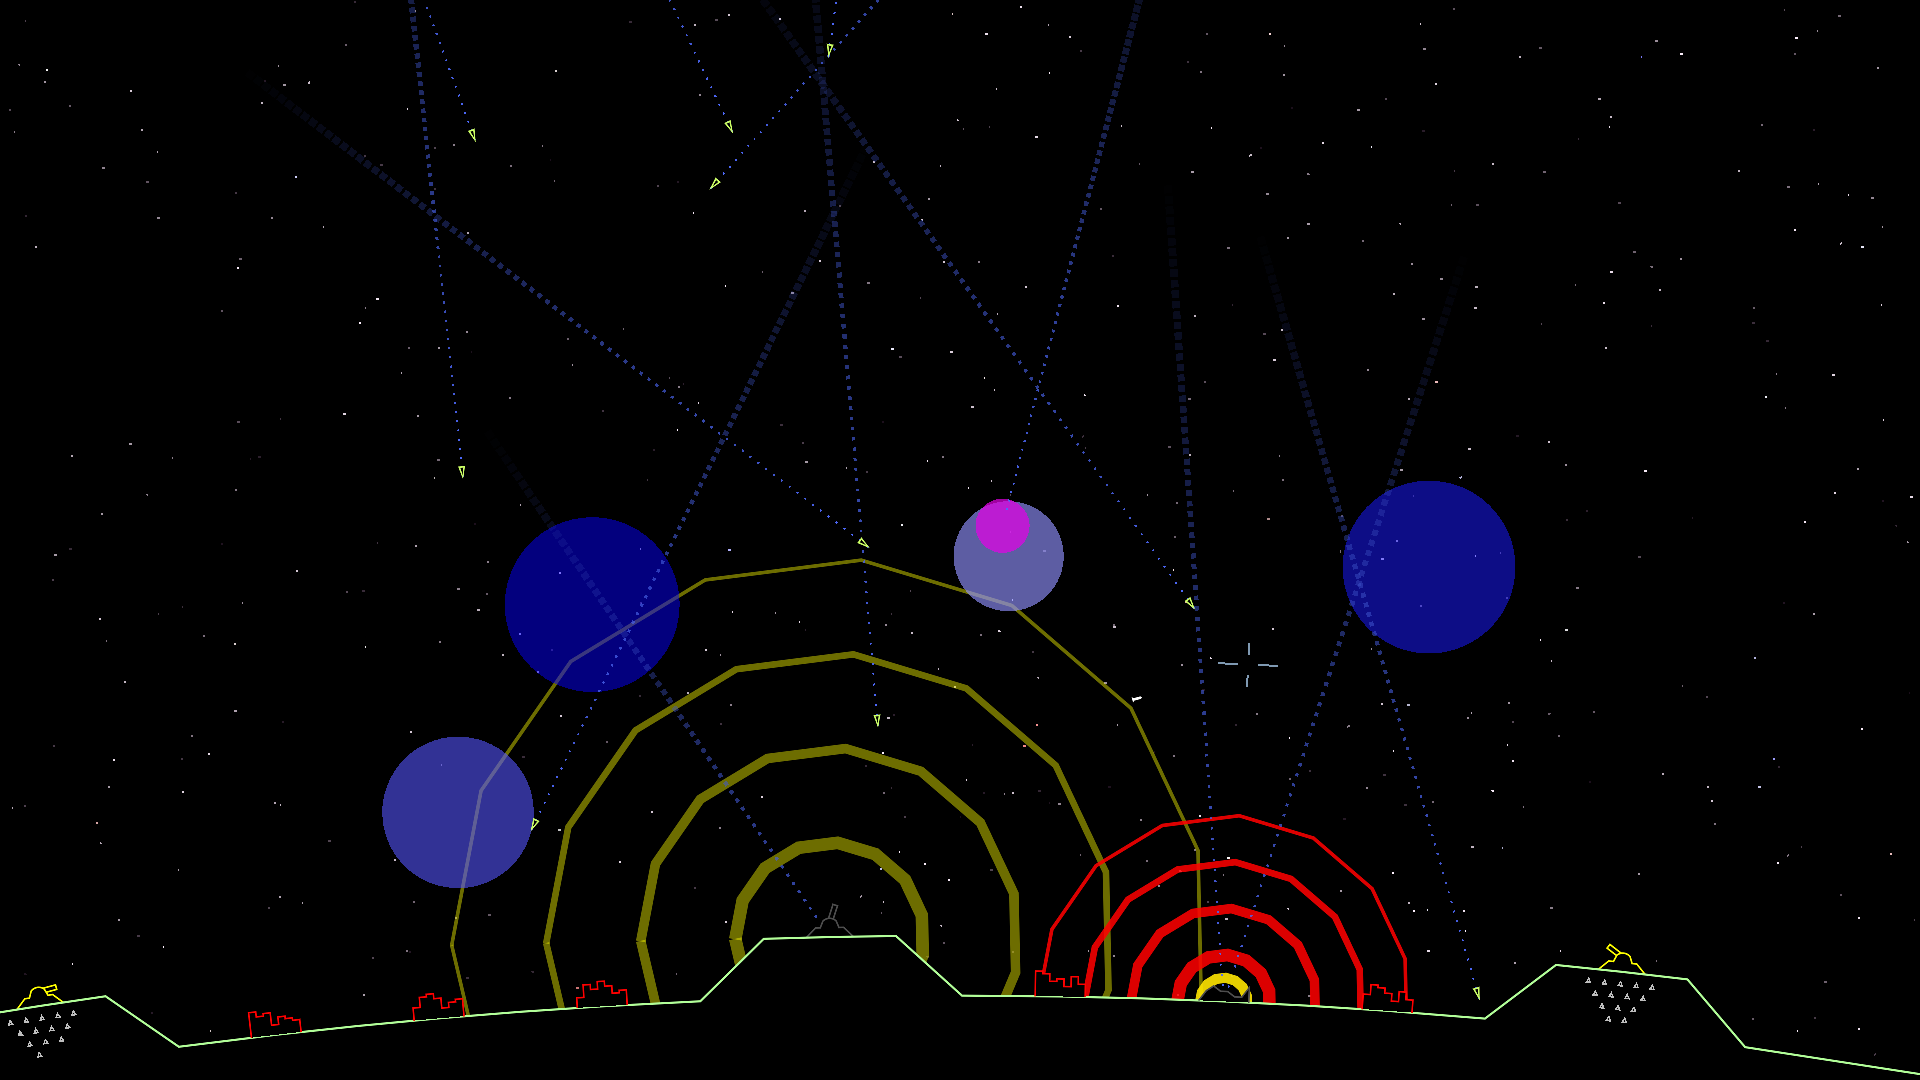
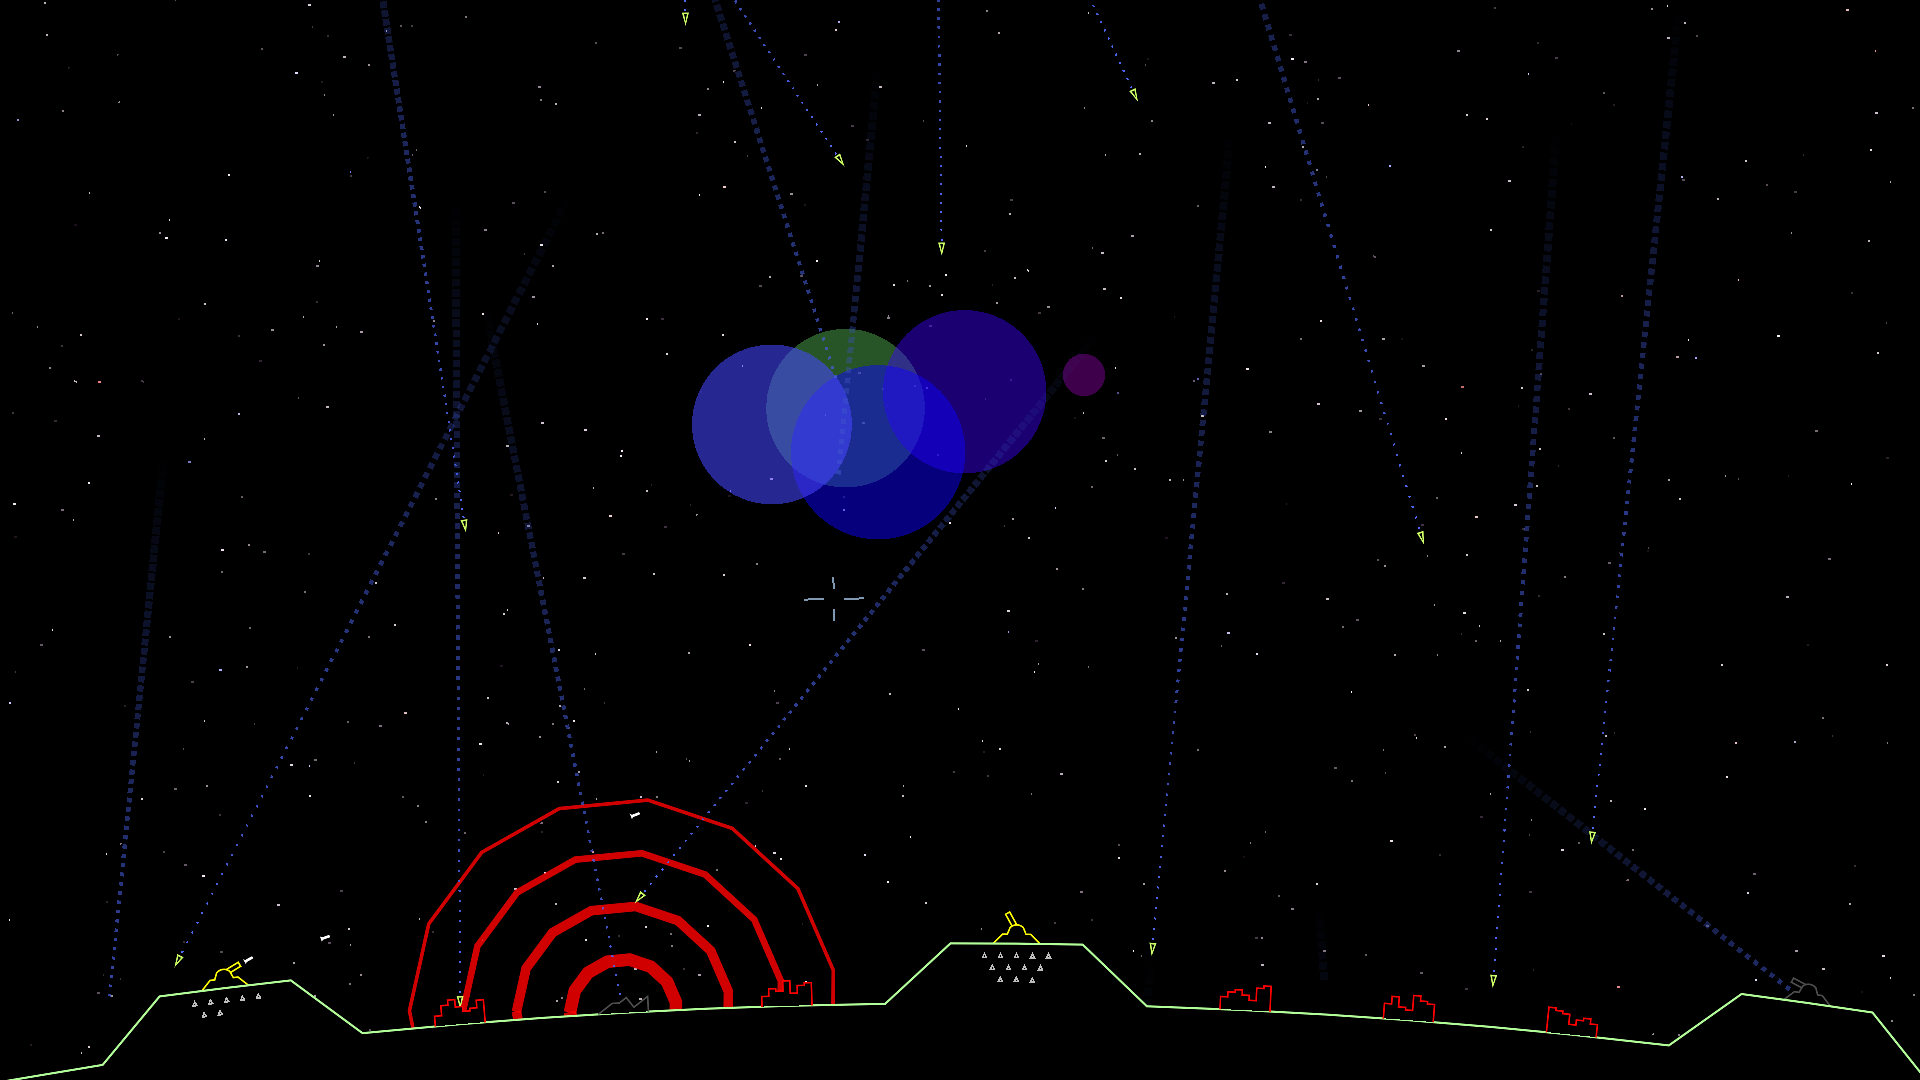
New screenshots, long overdue

diff --git a/README.md b/README.md
@@ -26,16 +26,6 @@ This remake made in [Godot](https://godotengine.org/) by Zander Hartley (aged
 
 ## TODO
 
-* make release
-  - build
-  - bump version
-  - upload
-  - commit
-  - tag
-
-* New screenshots, title screen (new title) and 'action' (with score)
-  * New release
-
 * BUG: Rarely, a falling missile can pass right through an explosion. Cal also
   reports collision detection errors. I once saw one fly right plain across the
   explode as it was at greatest radius. Other missiles were destroyed by that
